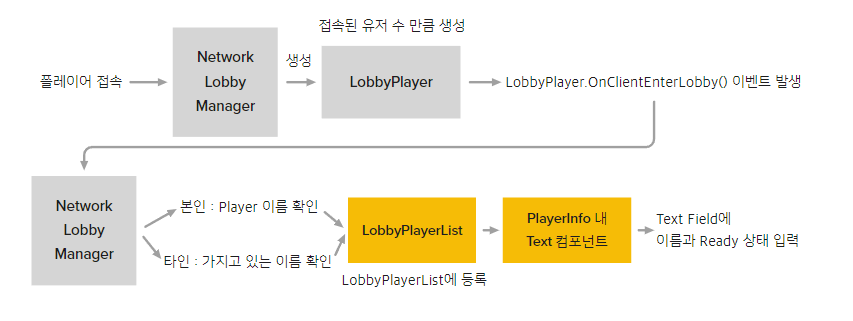
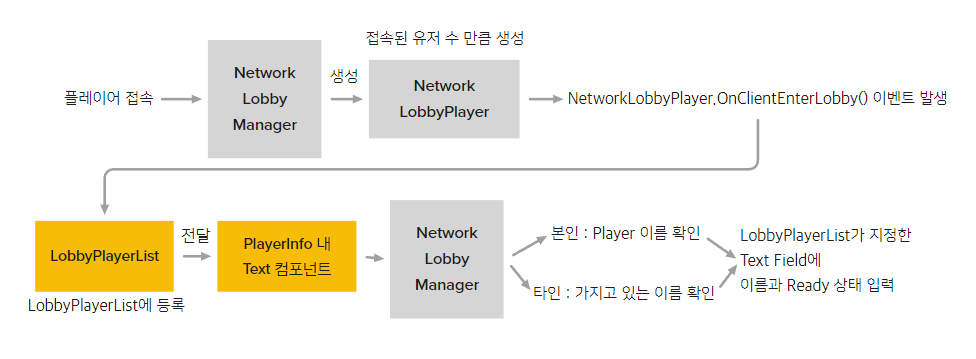
Update 오탈자 수정 및 Ingame Scene 진행

Changed region(s): [[0.0305, 0.0623, 0.9754, 0.9034]]

diff --git a/UnityProject/NetworkShooting/Description/UI, Scene/Connect Scene/Readme.md b/UnityProject/NetworkShooting/Description/UI, Scene/Connect Scene/Readme.md
@@ -39,10 +39,10 @@
   - 각 버튼 OnClick 이벤트에 Connect Scene Button script 내 함수 등록
   - Panel변경시 한 개의 Panel만 뜨도록 설계
   - HostButton
-    - ConnectSceneButtonScript.OnClickHostInHCSelect() 연결됨
+    - ConnectSceneButtonScript.OnClickToHostPanel() 연결됨
     - UIChangeTo 함수로 Host Panel로 변경
   - ConnectButton
-    - ConnectSceneButtonScript.OnClickHostInHCSelect() 연결됨
+    - ConnectSceneButtonScript OnClickToConnectionPanel() 연결됨
     - UIChangeTo 함수로 Client Panel로 변경
 - Scene 변경
   - ExitButton : Main Scene으로 변경 요청
@@ -62,12 +62,12 @@
 
  ## 구현 내용 
  - CreateButton
-   - ConnectSceneButtonScript.OnClickCreateInHost() 연결됨
+   - ConnectSceneButtonScript.OnClickCreateHost() 연결됨
    - NetworkLobbyManager로 InputField의 Port 입력값을 전달
-   - StartHost()로 호스트 서버 생성
+   - NetworkLobbyManager.StartHost()로 호스트 서버 생성
    - 호스트 서버 생성 확인 후 waitroom Panel 변경
  - ExitButton
-   - ConnectSceneButtonScript.OnClickCreateInHost() 연결됨
+   - ConnectSceneButtonScript. 연결됨
    - UIChangeTo 함수로 MainPanel로 변경
 
 
@@ -88,7 +88,7 @@
    - StartClient()로 호스트 서버 생성
    - 호스트 서버 생성 확인 후 waitroom Panel 변경
  - ExitButton
-   - ConnectSceneButtonScript.OnClickCreateInHost() 연결됨
+   - ConnectSceneButtonScript.OnClickExitToMain()연결됨
    - UIChangeTo 함수로 MainPanel로 변경
 
 ## [위로가기](#connect-scenelobby)
@@ -97,36 +97,53 @@
 
 ## Connect Scene Waitroom Panel
 
-
-
-<table>
-  <tr align=center>
-    <td><H3><b>실제화면</b></H3></</td>
-    <td><H3><b>네트워크의 접속, Waitroom Panel 전환 요청 이후 setting 과정</b></H3></td>
-  </tr>
-  <tr align=center >
-    <td><img src=" ../_Image/Connect%20Scene%20Waitroom.png"></td>
-    <td colspan=><img src=" ../_Image/Waitroom%20%EC%A0%91%EC%86%8D%20%ED%9B%84%20%EC%84%A4%EC%A0%95%EA%B3%BC%EC%A0%95.png"></td>
-  </tr>
-  <tr align=center>
-    <td colspan="2"><H3><b>Ready 후 Text(Ready) 변경 과정</b></H3></td>
-  </tr>
-  <tr align=center>
-    <td colspan="2"><img src="../_Image/Waitroom%20Ready%20후%20Text%20변경과정.png"></td>
-  </tr>
-  <tr align=center>
-    <td colspan="2"><H3><b>Button 구현 도식도</b></H3></td>
-  </tr>
-  <tr align=center>
-    <td colspan="2"><img src="../_Image/Waitroom%20Button%20설계%20내용.png"></td>
-  </tr>
-
-</table>
+|<H3><b>실제화면</b></H3>|<H3><b>Button 구현 도식도</b></H3>|
+|:---:|:---:|
+|![미리보기](../_Image/waitroom%20client%20%EC%A0%91%EC%86%8D%2C%20%EB%8F%99%EA%B8%B0%ED%99%94.png)|![미리보기](../_Image/Waitroom%20Button%20%EA%B0%84%EB%8B%A8%20%EB%82%B4%EC%9A%A9.png)|
 
 ## 구현 내용
+- ReadyButton Event는 NetworkLobbyPlayer 생성 시 등록
+  - 로컬플레이어의 Ready상태를 변경해야하므로 동적 생성
+  - LobbyPlayer.OnReadyClicked()를 연결
+  - LobbyPlayer.SendReadyToBeginMessage(), SendNotReadyToBeginMeesage()로 Ready 상태 서버에 전달
+  - 서버는 레디한 클라이언트 수를 확인해 자동으로 InGameScene 자동 전환
+- ExitButton
+  - ConnectSceneButtonScript.OnClickExitToMain() 연결됨
+  - 서버 연결 종료 delegate callback함수 실행
+    - 서버가 연결될 당시 종료함수를 delegate에 연결함
+    - NetworkLobbyManager.StopHost(), StopClient() 중 하나 연결
+  - UIChangeTo 함수로 MainPanel로 변경
+
+<br>
+
+## 세부 구현 내용
+
+|<H3><b>네트워크 접속 요청 후 처리과정</b></H3>|
+|:---:|
+|![이미지](../_Image/Waitroom%20%EC%A0%91%EC%86%8D%20%ED%9B%84%20%EC%84%A4%EC%A0%95%EA%B3%BC%EC%A0%95.png)|
 - Waitroom Panel Setting 과정
   -  NetworkLobbyManager가 네트워크에 연결되면, 자동적으로 LobbyPlayer를 생성
   -  LobbyPlayer의 OnClientEnterLobby()이벤트 발생
+  -  LobbyPlayer는 LobbyPlayerList에 등록요청 및 Text 컴포넌트를 받아옴
+     -  LobbyPlayerList
+        -  LobbyPlayer의 UI를 총괄하는 스크립트
+        -  UI내 Player 정보가 적히는 오브젝트의 부모에 추가
+        -  각 LobbyPlayer의 UI상 위치를 지정해줌
+  -  NetworkLobbyManager에 등록된 자신의 이름 확인
+  -  받아온 Text Component에 자신의 이름과 현재 Ready상태를 입력
+  -  서버에 접속된 순서대로 LobbyPlayer가 생성/반복됨
+
+
+|<H3><b>Ready 후 Text(Ready) 변경 과정</b></H3>|
+|:---:|
+|![이미지](../_Image/Waitroom%20Ready%20후%20Text%20변경과정.png)|
+-  Button 추가 설명
+   - ReadyButton
+     - LobbyPlayer내에 LocalPlayer임을 알려주는 플래그 존재, 해당 여부로 버튼 이벤트 등록을 결정
+     - 이후 ReadyButton을 누르면 연결된 LobbyPlayer.OnReadyClicked()가 실행 
+       - SendReadyToBeginMessage() or SendNotReadyToBeginMessage()으로 네트워크가 Ready값 전달
+       - OnClientReady() 이벤트가 발생, 네트워크 내 값을 일치화 시킴
+
 
 ## [위로가기](#connect-scenelobby)
 

diff --git a/UnityProject/NetworkShooting/Description/UI, Scene/InGameScene/Readme.md b/UnityProject/NetworkShooting/Description/UI, Scene/InGameScene/Readme.md
@@ -1,112 +1,82 @@
-# UI, Scene Design
+## Ingame Scene(Lobby)
+<br>
 
 ## 개요
- - UI, Scene 구현에 관한 문서입니다.
-<br>
+
+
+  
 <br>
 
 ## 바로가기
- - [Main Scene](#main-scene)
- - [Connect Scene](connect-scene(lobby))
- - [Ingame Scene](#main-scene)
-<br>
-<br>
+### Ingame Scene
+ - [MoveButton]()
+ - [Gauge]()
+ - [Top Indicate Button]()
+ - [Pause Panel]()
 
----
-<br>
 
-## Main Scene
-<br>
 
- ![미리보기](_Image/main%20Scene.png)
+## [이전 창으로 돌아가기](https://github.com/shehdrbs123/Dongs-Portfolio/tree/main/UnityProject/NetworkShooting/Description/UI%2C%20Scene)
 
 <br>
 
-## 구현 내용
+## MoveButton
 
-  ![미리보기](_Image/MainScene%20%EC%84%A4%EA%B3%84%20%EB%82%B4%EC%9A%A9.png)
+ |<H3><b>실제화면</b></H3>| <H3><b>Button 구현 도식도</b></H3>|
+ |:---:|:---:|
+ |![미리보기](../_Image/Ingame%20Scene%20Move%20Button.png)|![미리보기](../_Image/Connect%20Scene%20MainPanel%20%EC%84%A4%EA%B3%84%20%EB%82%B4%EC%9A%A9.png)|
 
-  - CommonButtonScript를 최상위 UI 오브젝트에 추가
-  - Unity GUI Button의 Hierachy 내 Button 컴포넌트의 OnClick 이벤트에 common button Script 함수 연결
-  - Start Button 
-    - CommonButtonScript 내 씬 이동 함수로 Connect Scene(다음씬)으로 이동
-  - Exit Button
-    - CommonButtonScript 내 종료함수로 게임 종료
+## 구현내용 
+- MoveButton
+  - 보이지 않는 양쪽의 버튼이 존재
+  - 왼쪽버튼을 누르면 왼쪽으로 이동, 오른쪽 버튼을 누르면 오른쪽 이동
+  - 접속 시 컨트롤 가능 플레이어 선택을 위해 내부적으로 Player를 보관
+  - Ingame Scene으로 전환되며 GamePlayer가 생성,
+  - GamePlayer로 부터 로컬플레이어라면 버튼에 Player가 연결된다.
+  
 
 
+## [위로가기](#ingame-scenelobby)
 
-
----
 <br>
 
-## Connect Scene(Lobby)
-<br>
+## Gauge
 
-### Panel Flow Chart
+ |<H3><b>실제화면</b></H3>| <H3><b>Button 구현 도식도</b></H3>|
+ |:---:|:---:|
+ |![미리보기](../_Image/Ingame%20-%20Pause.png)||
 
-![미리보기](_Image/Connect%20Scene%20UIFlowChart.png) 
 
 ## 구현내용
-- Scene 변경
-  - Connect -> Main : CommonButtonScript switchScene 함수로 씬변경
-- Panel 변경
-  - Connect Scene Button Script의 UIChangeTo 함수로 변경
-- Connect Scene Button Script는 UI 최상단 오브젝트 컴포넌트로 등록
-- 각 버튼 OnClick 이벤트에 Connect Scene Button script 내 함수 등록
-- Panel변경시 한 개의 Panel만 뜨도록 설계
+- ㅇㅇㅇ
+  
+## [위로가기](#ingame-scenelobby)
 
 <br>
-<br>
 
-## Connect Scene Main
+## Top Indicate Button
 
-
- ![미리보기](_Image/Connect%20Scene%20Main.png)
-
-
-## 구현내용 
-
- ![미리보기](_Image/Connect%20Scene%20MainPanel%20%EC%84%A4%EA%B3%84%20%EB%82%B4%EC%9A%A9.png)
+ |<H3><b>실제화면</b></H3>| <H3><b>Button 구현 도식도</b></H3>|
+ |:---:|:---:|
+ |![미리보기](../_Image/Ingame%20-%20Pause.png)||
 
 
-<br>
-<br>
-
-## Connect Scene Host Panel
-
-
- ![미리보기](_Image/Connect%20Scene%20Host.png)
- 
- 
-## 구현내용 
-
- ![미리보기](_Image/Connect%20Scene%20MainPanel%20%EC%84%A4%EA%B3%84%20%EB%82%B4%EC%9A%A9.png)
-
+## 구현내용
+- ㅇㅇㅇ
+## [위로가기](#ingame-scenelobby)
 
 <br>
+
+## Pause Panel
+
+ |<H3><b>실제화면</b></H3>| <H3><b>Button 구현 도식도</b></H3>|
+ |:---:|:---:|
+ |![미리보기](../_Image/Ingame%20-%20Pause.png)||
+
+## 구현내용
+- ㅇㅇㅇ
+## [위로가기](#ingame-scenelobby)
+
 <br>
 
-## Connect Scene Client Panel
-
-
- ![미리보기](_Image/Connect%20Scene%20Client.png)
-
-## Connect Scene Waitroom Panel
-
-
- ![미리보기](_Image/Connect%20Scene%20Waitroom.png)
-
- 
-<br>
-<br>
-
----
-
-## Ingame Scene
-
-## Ingame
- ![미리보기](_Image/Ingame%20Scene.png)
-
- ## Ingame - Pause Panel
- ![미리보기](_Image/Ingame%20-%20Pause.png)
-
+## [이전 창으로 돌아가기](https://github.com/shehdrbs123/Dongs-Portfolio/tree/main/UnityProject/NetworkShooting/Description/UI%2C%20Scene)

diff --git a/UnityProject/NetworkShooting/Description/UI, Scene/Readme.md b/UnityProject/NetworkShooting/Description/UI, Scene/Readme.md
@@ -8,6 +8,8 @@
  - [Main Scene](https://github.com/shehdrbs123/Dongs-Portfolio/tree/main/UnityProject/NetworkShooting/Description/UI%2C%20Scene/MainScene)
  - [Connect Scene](https://github.com/shehdrbs123/Dongs-Portfolio/tree/main/UnityProject/NetworkShooting/Description/UI%2C%20Scene/Connect%20Scene)
  - [Ingame Scene](https://github.com/shehdrbs123/Dongs-Portfolio/tree/main/UnityProject/NetworkShooting/Description/UI%2C%20Scene/InGameScene)
+  
+## [이전 창으로 돌아가기](https://github.com/shehdrbs123/Dongs-Portfolio/tree/main/UnityProject/NetworkShooting)
  
 <br>
 

diff --git a/UnityProject/NetworkShooting/Readme.md b/UnityProject/NetworkShooting/Readme.md
@@ -2,7 +2,10 @@
 <center>
 
  ![미리보기](../NetworkShooting.gif)
-
+   <br>
+    PC 2대, 안드로이드 1대의 네트워킹 게임모습을 편집한 장면입니다.
+    <br>
+    혼자 플레이영상을 찍어 한대만 플레이 되었습니다.
 </center>
 
 ## 개요 
